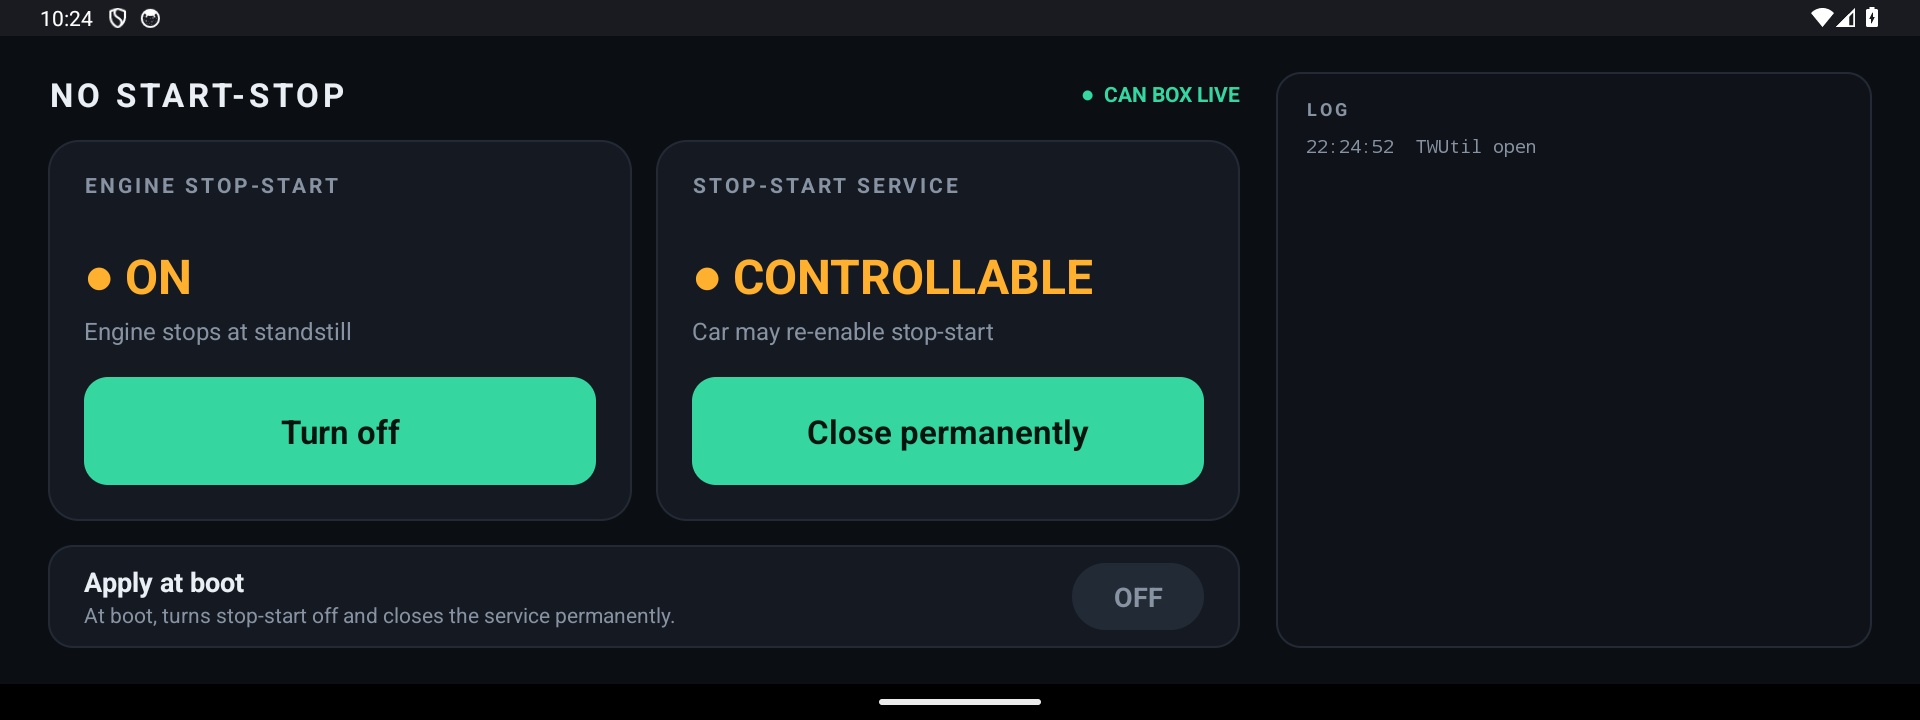
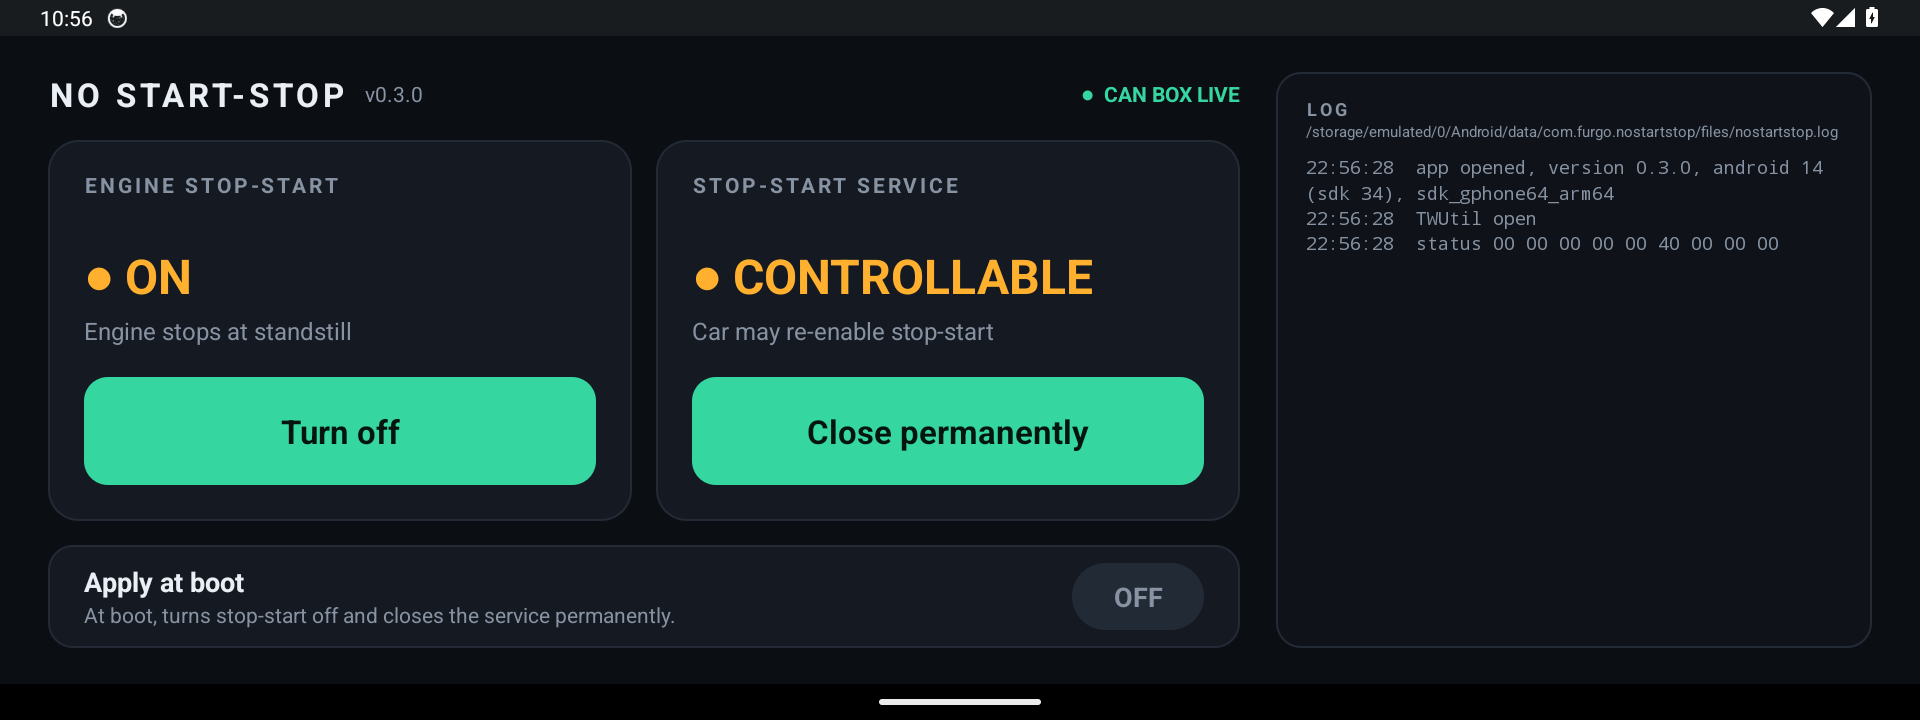
Show the app version next to the title

diff --git a/src/com/furgo/nostartstop/MainActivity.java b/src/com/furgo/nostartstop/MainActivity.java
@@ -229,7 +229,13 @@ public class MainActivity extends Activity implements CanBox.Listener {
         header.setGravity(Gravity.CENTER_VERTICAL);
         TextView title = text("NO START-STOP", 22, TEXT, true);
         title.setLetterSpacing(0.12f);
-        header.addView(title, new LinearLayout.LayoutParams(0, -2, 1f));
+        header.addView(title);
+        String v = versionName();
+        // Release builds are named like "0.3.0"; local builds are "dev".
+        TextView version = text(Character.isDigit(v.charAt(0)) ? "v" + v : v, 14, MUTED, false);
+        LinearLayout.LayoutParams versionLp = new LinearLayout.LayoutParams(0, -2, 1f);
+        versionLp.leftMargin = dp(12);
+        header.addView(version, versionLp);
         linkView = text("", 14, MUTED, true);
         header.addView(linkView);
         left.addView(header, new LinearLayout.LayoutParams(-1, -2));
